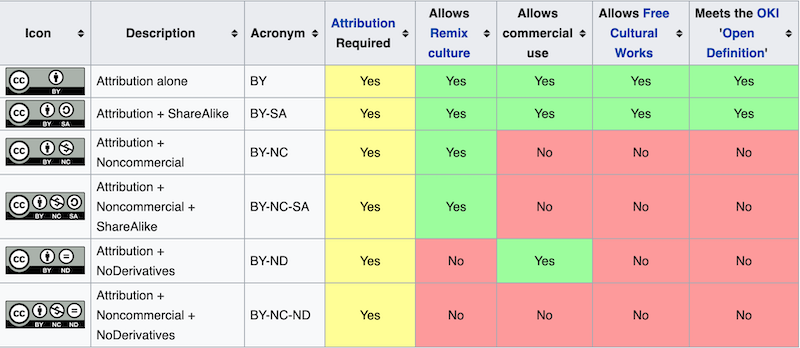
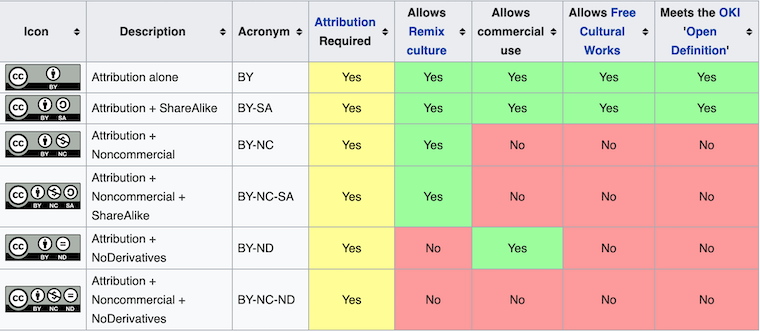
resize license image

diff --git a/src/editors/document/course/CourseEditor.tsx b/src/editors/document/course/CourseEditor.tsx
@@ -639,7 +639,14 @@ class CourseEditor extends React.Component<CourseEditorProps, CourseEditorState>
               </div>
               <div className="row">
                 <div className="col-3">License <HelpPopover activateOnClick>
-                  <img src={CC_LICENSES} /></HelpPopover>
+                  <div><img src={CC_LICENSES} />
+                    <br /><br />
+                    <a href="https://en.wikipedia.org/wiki/Creative_Commons_license"
+                      target="_blank">
+                      More information
+                    </a>
+                  </div>
+                </HelpPopover>
                 </div>
                 <div className="col-9">{this.renderLicenseSelect()}</div>
               </div>
